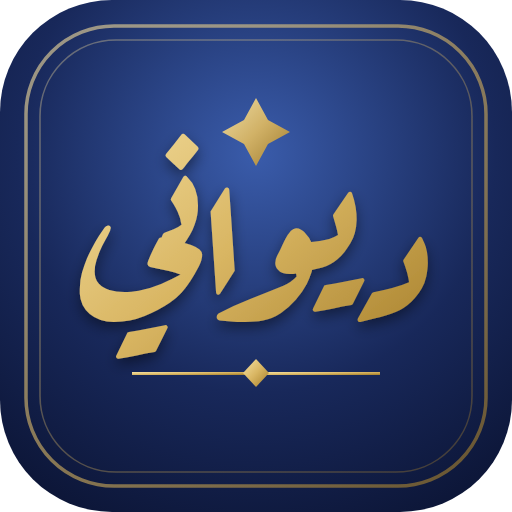
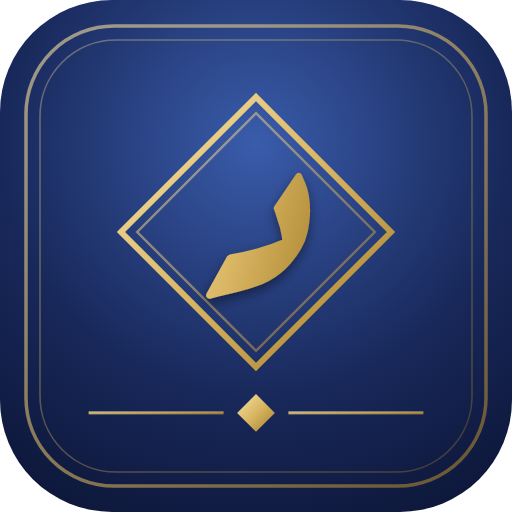
تحسينات التجربة والهوية: ضبط الخط تلقائيًا، رأس للرئيسية، تفاصيل القصيدة، زر إضافة مصغر، شعار جديد
Claude-Session: https://claude.ai/code/session_015Zmsq2fJPfMJmhhZ8KKNsf

Changed region(s): [[0.1562, 0.1875, 0.8438, 0.8438], [0.5625, 0.7812, 0.8438, 0.8125], [0.1562, 0.7812, 0.4375, 0.8125]]

diff --git a/index.html b/index.html
@@ -104,7 +104,7 @@ h2.h{font-family:var(--f-display);font-size:1.9rem;color:var(--accent);margin:8p
 .votd-foot{display:flex;gap:8px;justify-content:center;flex-wrap:wrap;align-items:center;color:var(--muted);font-size:.9rem}
 .linkbtn{background:none;border:0;color:var(--accent);cursor:pointer;padding:2px 4px;text-decoration:underline;text-underline-offset:3px}
 .fabwrap{position:fixed;inset-inline-end:16px;bottom:calc(18px + env(safe-area-inset-bottom,0px));display:flex;flex-direction:column;align-items:flex-end;gap:10px;z-index:5}
-.fab{border:0;border-radius:999px;background:var(--accent);color:var(--on-accent);padding:13px 22px;font-weight:600;cursor:pointer;box-shadow:0 6px 20px rgba(0,0,0,.25);font-size:1rem}
+.fab{border:0;border-radius:50%;width:48px;height:48px;padding:0;display:grid;place-items:center;background:var(--accent);color:var(--on-accent);font-weight:400;cursor:pointer;box-shadow:0 6px 20px rgba(0,0,0,.25);font-size:1.9rem;line-height:1}
 .fab-menu{display:none;flex-direction:column;gap:6px;background:var(--surface);border:1px solid var(--line);border-radius:12px;padding:8px;box-shadow:0 8px 28px rgba(0,0,0,.2)}
 .fabwrap.open .fab-menu{display:flex}
 .fab-menu .btn{justify-content:flex-start;border-color:transparent;color:var(--ink);padding:10px 14px;width:100%}
@@ -158,7 +158,7 @@ h2.h{font-family:var(--f-display);font-size:1.9rem;color:var(--accent);margin:8p
   body{padding-bottom:calc(84px + env(safe-area-inset-bottom,0px))}
   #bnav button{position:relative;background:none;border:0;display:grid;justify-items:center;gap:2px;padding:6px 0 5px;border-radius:14px;color:var(--muted);font-size:.74rem;cursor:pointer;min-width:0;transition:background .2s,color .2s}
   #bnav button[aria-current="page"]{color:var(--accent);font-weight:600;background:var(--tint)}
-  #bnav button[aria-current="page"]::before{content:"";position:absolute;top:-8px;inset-inline:32%;height:3px;border-radius:0 0 3px 3px;background:var(--gold)}
+  #bnav button[aria-current="page"]::before{display:none}
   #bnav svg{width:23px;height:23px;fill:none;stroke:currentColor;stroke-width:1.8;stroke-linecap:round;stroke-linejoin:round}
   #bnav button[data-nav="flash"]{margin-top:-28px;background:none;color:var(--accent);font-weight:600}
   #bnav button[data-nav="flash"]::before{display:none}
@@ -174,9 +174,9 @@ h2.h{font-family:var(--f-display);font-size:1.9rem;color:var(--accent);margin:8p
 
 /* ---- v2: share, theme icon, motion ---- */
 .vw{position:relative;padding-inline:34px}
-.shv{position:absolute;inset-inline-end:0;top:50%;transform:translateY(-50%);width:32px;height:32px;display:grid;place-items:center;border-radius:50%;border:0;background:none;color:var(--muted);opacity:.4;cursor:pointer;transition:opacity .2s,background .2s,color .2s}
-.vw:hover .shv,.shv:focus-visible{opacity:1}.shv:hover{background:var(--tint);color:var(--accent)}
-@media (hover:none){.shv{opacity:.55}}
+.shv{position:absolute;inset-inline-end:0;top:50%;transform:translateY(-50%);width:32px;height:32px;display:grid;place-items:center;border-radius:50%;border:0;background:none;color:var(--muted);opacity:0;pointer-events:none;cursor:pointer;transition:opacity .2s,background .2s,color .2s}
+.vw:hover .shv,.vw.sel .shv,.shv:focus-visible{opacity:1;pointer-events:auto}.shv:hover{background:var(--tint);color:var(--accent)}
+@media (hover:none){.vw.sel .shv{background:var(--tint);color:var(--accent)}}
 .tico{display:inline-grid;place-items:center;line-height:1;transition:transform .5s cubic-bezier(.3,1.6,.5,1)}
 .sq:hover .tico{transform:rotate(25deg) scale(1.12)}
 .tico.sun{animation:tspin .6s ease}.tico.moon{animation:tpop .5s ease}
@@ -327,7 +327,7 @@ table.bv{width:100%;border-collapse:collapse;margin-top:8px}table.bv td{width:50
 .blogo{width:34px;height:34px;border-radius:9px;vertical-align:middle;margin-inline-end:10px;margin-top:-6px;box-shadow:0 2px 8px rgba(10,20,50,.25)}
 
 /* settings v2 */
-.sct{font:600 .8rem var(--f-ui);color:var(--gold);letter-spacing:.05em;margin:22px 4px 8px}
+.sct{font:700 .92rem var(--f-ui);color:var(--gold);letter-spacing:.02em;margin:24px 4px 8px}
 .scard{background:var(--surface);border:1px solid var(--line);border-radius:16px;overflow:hidden}
 .srow{display:flex;align-items:center;gap:12px;width:100%;padding:12px 14px;background:none;border:0;border-bottom:1px solid var(--line);color:var(--ink);text-align:start;cursor:pointer;font-family:var(--f-ui);position:relative;border-radius:0}
 .scard>:last-child{border-bottom:0}
@@ -528,6 +528,24 @@ html[dir=rtl] .flspark,.flspark{inset-inline-start:auto;left:50%;transform:trans
 .flacts .btn.ic svg{width:22px;height:22px;fill:none;stroke:currentColor;stroke-width:1.9;stroke-linecap:round;stroke-linejoin:round}
 @media print{#flash{display:none!important}}
 @media (prefers-reduced-motion:reduce){.flbox.flin{animation:none}}
+
+/* رأس الرئيسية والتفاصيل */
+.hero{display:flex;align-items:center;gap:14px;width:100%;padding:12px 14px;margin:6px 0 10px;border:1px solid var(--line);border-radius:16px;background:linear-gradient(160deg,var(--tint),var(--surface));text-align:start;cursor:pointer;color:var(--ink)}
+.hero:hover{border-color:var(--gold)}
+.avatar.sm{width:52px;height:52px;font-size:1.6rem;border-width:2px;flex:none}
+.avatar.sm.ph{width:52px;height:52px}
+.hmeta{display:grid;gap:1px;min-width:0;flex:1}
+.hmeta b{font-family:var(--f-display);font-size:1.35rem;font-weight:400;color:var(--accent);line-height:1.4}
+.hmeta span{color:var(--muted);font-size:.9rem;overflow:hidden;text-overflow:ellipsis;white-space:nowrap}
+.hmeta small{color:var(--gold);font-weight:600;font-size:.82rem}
+.hero .chev{width:18px;height:18px;fill:none;stroke:var(--muted);stroke-width:2;stroke-linecap:round;stroke-linejoin:round;flex:none}
+.pdet{margin:0 0 6px}
+.pdet summary{cursor:pointer;color:var(--accent);font-size:.9rem;list-style:none;display:inline-flex;align-items:center;gap:6px;padding:2px 0}
+.pdet summary::-webkit-details-marker{display:none}
+.pdet summary::after{content:"▾";font-size:.8rem;transition:transform .2s}
+.pdet[open] summary::after{transform:rotate(180deg)}
+.pdet .pmeta{margin-top:4px}
+@media print{.hero{display:none!important}.pdet{display:block}.pdet summary{display:none}}
 </style>
 </head>
 <body>
@@ -563,7 +581,7 @@ function save(){try{localStorage.setItem(KEY,JSON.stringify(S.data));storageOk=t
 function peekLocal(){var d=load();if(!d)return null;var l=d.poems.filter(function(p){return !p.sample&&p.id!=='sample1'});return l.length?{poems:l,settings:d.settings}:null}
 
 var S={data:freshData(),mode:'',ready:false,canEdit:false,isOwner:false,err:'',tab:'home',q:'',bahr:'',tag:'',poet:'',sort:'new',view:'list',cur:null,edit:null,imp:[],confirm:false,msg:'',fs:1,votd:null,tash:true,ri:0};
-var BUILD='2026.10.04-x';
+var BUILD='2026.10.04-y';
 var LS={get:function(k,d){try{var v=localStorage.getItem(k);return v===null?d:JSON.parse(v)}catch(e){return d}},set:function(k,v){try{localStorage.setItem(k,JSON.stringify(v))}catch(e){}}};
 S.focus=null;S.settingsExt=false;S.photoExt=false;S.social=null;S.likes={};S.mylikes={};S.cmts=[];S.pending=[];S.newIds=[];S.onlyNew=false;S.ms=!!LS.get('diwan-ms',false);
 if(S.ms)document.documentElement.dataset.ms='1';
@@ -931,6 +949,12 @@ function draftsHtml(){
   ensureArrs();if(!canE()||!S.data.drafts.length)return '';
   return '<h3 class="sct">مسوداتي <small class="dnote">لا يراها غيرك</small></h3><ul class="list">'+S.data.drafts.slice().sort(function(a,b){return (b.created||0)-(a.created||0)}).map(rowHtml).join('')+'</ul>';
 }
+function heroHtml(){
+  var st=S.data.settings,sx=statsOf(S.data.poems.filter(function(p){return !p.draft}));
+  var tag=(st.bio||'').split(/[\n.،؛]/)[0].trim();if(tag.length>70)tag=tag.slice(0,68).trim()+'…';
+  var cnt=sx.poems?(num(sx.poems)+' قصيدة'+(sx.verses?' · '+num(sx.verses)+' بيتًا':'')):'';
+  return '<button class="hero" data-act="nav" data-nav="about"><span class="avatar sm'+(st.photo?' ph':'')+'" aria-hidden="true">'+photoPv(st)+'</span><span class="hmeta"><b>'+esc(st.author||st.site)+'</b><span>'+esc(tag||'قصائد وأبيات')+'</span>'+(cnt?'<small>'+cnt+'</small>':'')+'</span><svg class="chev" viewBox="0 0 24 24" aria-hidden="true"><path d="M15 6l-6 6 6 6"/></svg></button>';
+}
 function homeHtml(){
   if(!S.data.poems.length)return draftsHtml()+listHtml();
   var all=S.data.poems.slice().sort(function(a,b){return (b.created||0)-(a.created||0)});
@@ -969,11 +993,11 @@ function viewList(){
   (S.err?'<div class="warn">تعذر تحميل القصائد. تحقق من الاتصال بالإنترنت وأعد فتح الصفحة.</div>':'')+
   (S.mode==='local'?'<div class="warn">'+(storageOk?'الموقع غير مرتبط بقاعدة بيانات بعد (راجع ملف الإعداد)، فتُحفظ التعديلات في هذا المتصفح فقط.':'تعذر الحفظ في هذا المتصفح، فلن تبقى التعديلات بعد إغلاق الصفحة.')+'</div>':'');
   var body;
-  if(S.tab==='home')body='<p class="sub">'+num(d)+(f?' في ديواني · '+num(f)+' في المفضلة':' قصيدة')+(S.canEdit&&!S.isOwner?' · وضع المدير':'')+'</p>'+homeHtml();
+  if(S.tab==='home')body=heroHtml()+homeHtml();
   else if(S.tab==='fav')body=favTabHtml();
   else body=barHtml()+chipsHtml()+'<div id="listbox">'+listHtml()+'</div>';
   return mast()+warn+body+
-  (canE()?'<div class="fabwrap"><div class="fab-menu"><button class="btn" data-act="add">✎ كتابة قصيدة</button><label class="btn file">⇪ رفع ملف Word<input type="file" accept=".docx" data-file="1" id="f-main"></label></div><button class="fab" data-act="fab" aria-label="إضافة">+ إضافة</button></div>':'');
+  (canE()?'<div class="fabwrap"><div class="fab-menu"><button class="btn" data-act="add">✎ كتابة قصيدة</button><label class="btn file">⇪ رفع ملف Word<input type="file" accept=".docx" data-file="1" id="f-main"></label></div><button class="fab" data-act="fab" aria-label="إضافة" title="إضافة">+</button></div>':'');
 }
 function viewPoem(){
   var p=findP(S.cur);if(!p){S.view='list';return viewList()}
@@ -982,7 +1006,8 @@ function viewPoem(){
   GL=parseGloss(p.gloss);FVP=p.id;
   return mast()+'<button class="back" data-act="home">→ العودة إلى القائمة</button>'+
   '<h1 class="ptitle">'+esc(p.title)+(p.sample?' <span class="badge">مثال</span>':'')+(p.draft?' <span class="badge">مسودة</span>':'')+'</h1>'+
-  '<p class="pmeta">'+meta.map(function(m){return '<span>'+m[0]+': <b>'+esc(m[1])+'</b></span>'}).join('')+'<span>'+num(p.verses.length)+' بيتًا</span></p>'+
+  '<p class="pmeta">'+(poetLabel(p)?'<span>'+esc(poetLabel(p))+'</span>':'')+'<span>'+num(p.verses.length)+' بيتًا</span></p>'+
+  (meta.filter(function(m){return m[0]!=='الشاعر'}).length?'<details class="pdet"><summary>تفاصيل القصيدة</summary><p class="pmeta">'+meta.filter(function(m){return m[0]!=='الشاعر'}).map(function(m){return '<span>'+m[0]+': <b>'+esc(m[1])+'</b></span>'}).join('')+'</p></details>':'')+
   ((p.tags||[]).length?'<div class="ptags">'+p.tags.map(function(t){return '<button class="tg" data-act="tagopen" data-tag="'+esc(t)+'">'+esc(t)+'</button>'}).join('')+'</div>':'')+
   '<div class="tools-row ptools" style="margin-top:8px">'+'<button class="icon-btn sqb" data-act="readopen" aria-label="وضع القراءة" title="وضع القراءة">'+ico('book')+'</button><button class="icon-btn sqb" data-act="sheet" data-k="view" aria-label="الخط والحجم والتشكيل" title="الخط والحجم والتشكيل"><svg viewBox="0 0 24 24" aria-hidden="true"><path d="M3 19L9 5l6 14M5.2 14h7.6M17 19l2.5-6 2.5 6M17.8 17h3.4"/></svg></button><button class="icon-btn sqb" data-act="sheet" data-k="more" aria-label="المزيد" title="المزيد"><svg class="dots" viewBox="0 0 24 24" aria-hidden="true"><circle cx="5" cy="12" r="2.2"/><circle cx="12" cy="12" r="2.2"/><circle cx="19" cy="12" r="2.2"/></svg></button></div><div class="orn"><i></i></div>'+(GL.length?'<p class="hint gh">الكلمات التي تحتها نقاط لها معنى، اضغط عليها.</p>':'')+'<div class="verses" style="--fs:'+S.fs+'">'+versesHtml(p.verses,!S.tash,true)+'</div>'+
   notesHtml(p)+(p.draft?'<p class="hint dnote">هذه مسودة، لا يراها أحد غيرك حتى تنشرها.</p>':socialHtml(p))+
@@ -1127,14 +1152,22 @@ function installRow(){
 }
 var FITC={k:'',v:1.6};
 /* أكبر حجم لا ينزل معه شطر إلى سطر ثانٍ على هذه الشاشة */
+function applyFit(){
+  if(S.view!=='poem')return;
+  var root=$('.verses');if(!root)return;
+  var c=fitCap(),eff=Math.min(S.fs,c);
+  root.style.setProperty('--fs',eff);
+}
+window.addEventListener('resize',function(){clearTimeout(window.__fitT);window.__fitT=setTimeout(function(){if(S.view==='poem'){FITC={k:'',v:1.6};applyFit()}},150)});
+try{if(document.fonts&&document.fonts.ready)document.fonts.ready.then(function(){FITC={k:'',v:1.6};applyFit()})}catch(e){}
 function fitCap(){
   var root=$('.verses');if(!root||S.view!=='poem')return 1.6;
   var key=[S.cur,S.fi,S.tash,window.innerWidth].join('|');
   if(FITC.k===key)return FITC.v;
   var els=root.querySelectorAll('.v:not(.one) .s,.v:not(.one) .j'),old=root.style.getPropertyValue('--fs'),cap=1.6;
   if(els.length){
-    cap=0.8;
-    for(var n=8;n<=16;n++){
+    cap=0.6;
+    for(var n=6;n<=16;n++){
       var s=n/10,bad=false;root.style.setProperty('--fs',s);
       for(var i=0;i<els.length;i++){var cs=getComputedStyle(els[i]),fs=parseFloat(cs.fontSize),lh=parseFloat(cs.lineHeight)||fs*1.9;if(els[i].getBoundingClientRect().height>lh*1.4){bad=true;break}}
       if(bad)break;cap=s;
@@ -1274,7 +1307,7 @@ function viewKey(){return S.view==='list'?'list:'+S.tab+'|'+S.poet+'|'+S.tag+'|'
 function render(keep){
   if(!keep&&curKey)SCR[curKey]=window.scrollY;
   var h=!S.ready?viewLoading():S.view==='list'?viewList():S.view==='poem'?viewPoem():S.view==='read'?viewRead():S.view==='edit'?viewEdit():S.view==='import'?viewImport():S.view==='more'?viewMore():S.view==='fverses'?viewFv():S.view==='poetpage'?viewPoetPage():S.view==='stats'?viewStats():S.view==='book'?viewBook():S.view==='pending'?viewPending():S.view==='login'?viewLogin():S.view==='account'?viewAccount():viewTools();
-  hideTip();if(S.view!=='poem'&&SHK&&SHK!=='install'&&SHK!=='menu')closeSheet();var ap=$('#app');ap.innerHTML=h;renderNav();
+  hideTip();if(S.view!=='poem'&&SHK&&SHK!=='install'&&SHK!=='menu')closeSheet();var ap=$('#app');ap.innerHTML=h;renderNav();applyFit();
   if(!keep){var ky=viewKey(),yy=(ky&&SCR[ky])||0;window.scrollTo(0,yy);if(yy){requestAnimationFrame(function(){window.scrollTo(0,yy)});setTimeout(function(){window.scrollTo(0,yy)},120)}ap.classList.remove('vin');void ap.offsetWidth;ap.classList.add('vin')}
   curKey=viewKey();
   if(S.view==='poem')TS[S.tab]=S.cur;else if(S.view==='list')TS[S.tab]=null;
@@ -1569,6 +1602,9 @@ document.addEventListener('click',function(e){
   var gw=e.target.closest&&e.target.closest('.gw');
   if(gw){e.stopPropagation();showTip(gw);return}
   if(!e.target.closest('#gtip'))hideTip();
+  var vwEl=e.target.closest&&e.target.closest('.vw');
+  if(vwEl&&!e.target.closest('button,a,[data-act],[data-g],.g')){var was=vwEl.classList.contains('sel');document.querySelectorAll('.vw.sel').forEach(function(x){x.classList.remove('sel')});if(!was)vwEl.classList.add('sel')}
+  else if(!vwEl)document.querySelectorAll('.vw.sel').forEach(function(x){x.classList.remove('sel')});
   var fw=document.querySelector('.fabwrap');if(fw&&!e.target.closest('.fabwrap'))fw.classList.remove('open');
   var b=e.target.closest('[data-act]');if(!b)return;
   var a=b.dataset.act,p;
